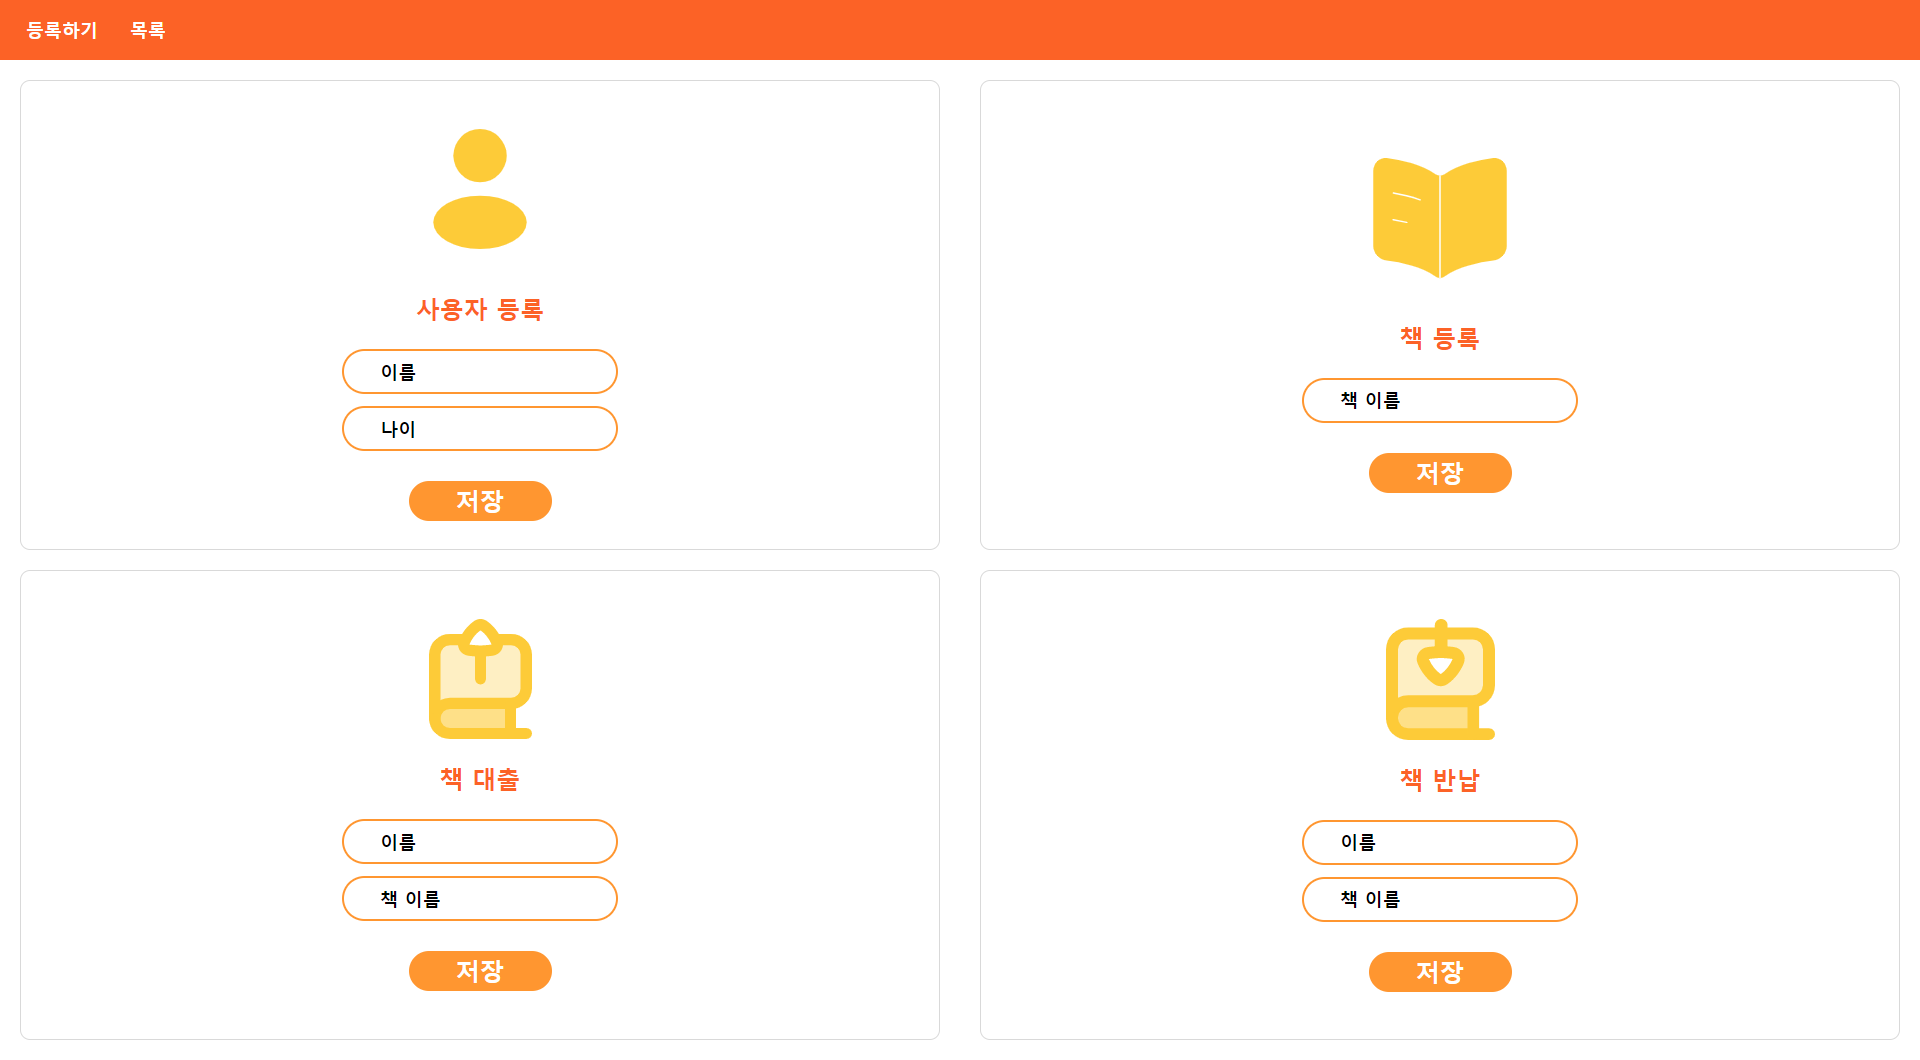
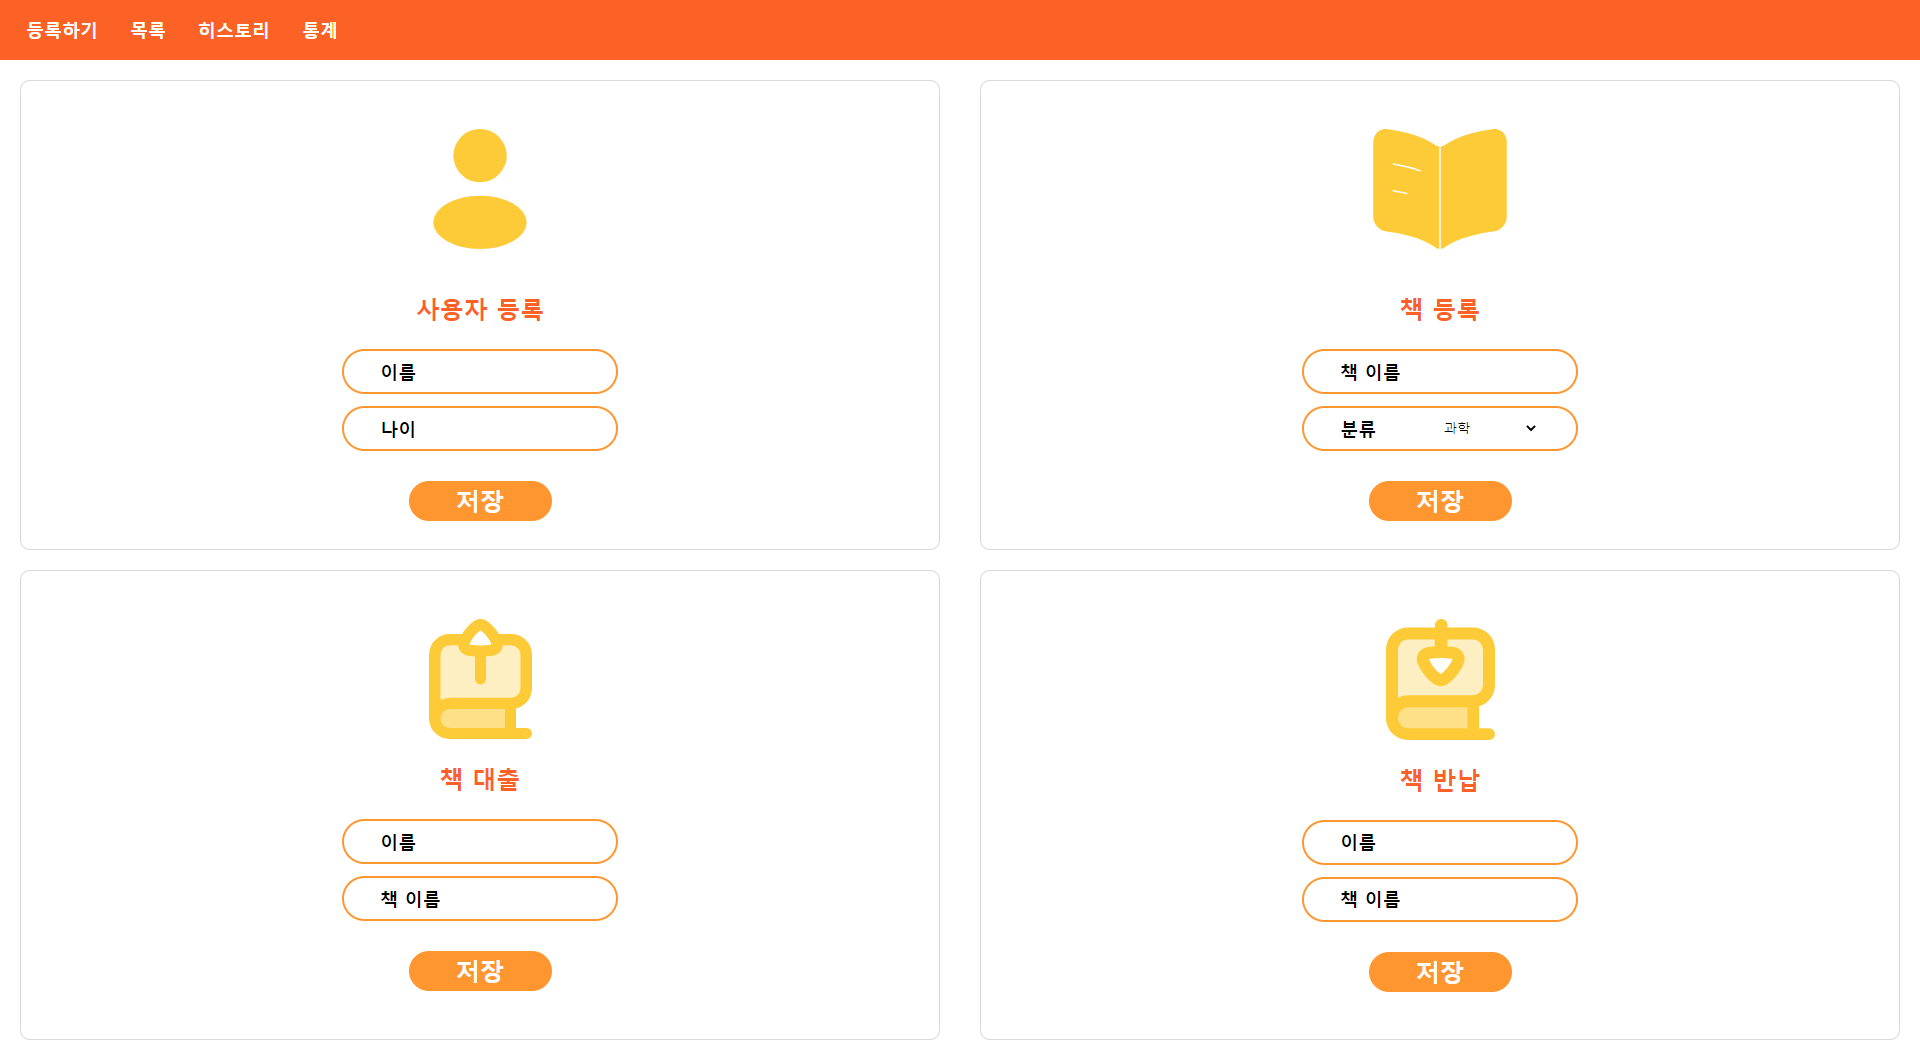
docs: 추가된 기능을 업데이트한다.

diff --git a/README.md b/README.md
@@ -1,5 +1,8 @@
-# 간단한 도서관리 프로그램 개발
+# 도서관리 프로그램 개발
 
 ![img.png](img.png)
+![img_1.png](img_1.png)
+![img_2.png](img_2.png)
+![img_3.png](img_3.png)
 
-- 자바 기반 프로젝트를 코틀린으로 리팩토링하는 과정을 담는다.
+- 코틀린으로 도서관리 프로그램을 개발한다.
